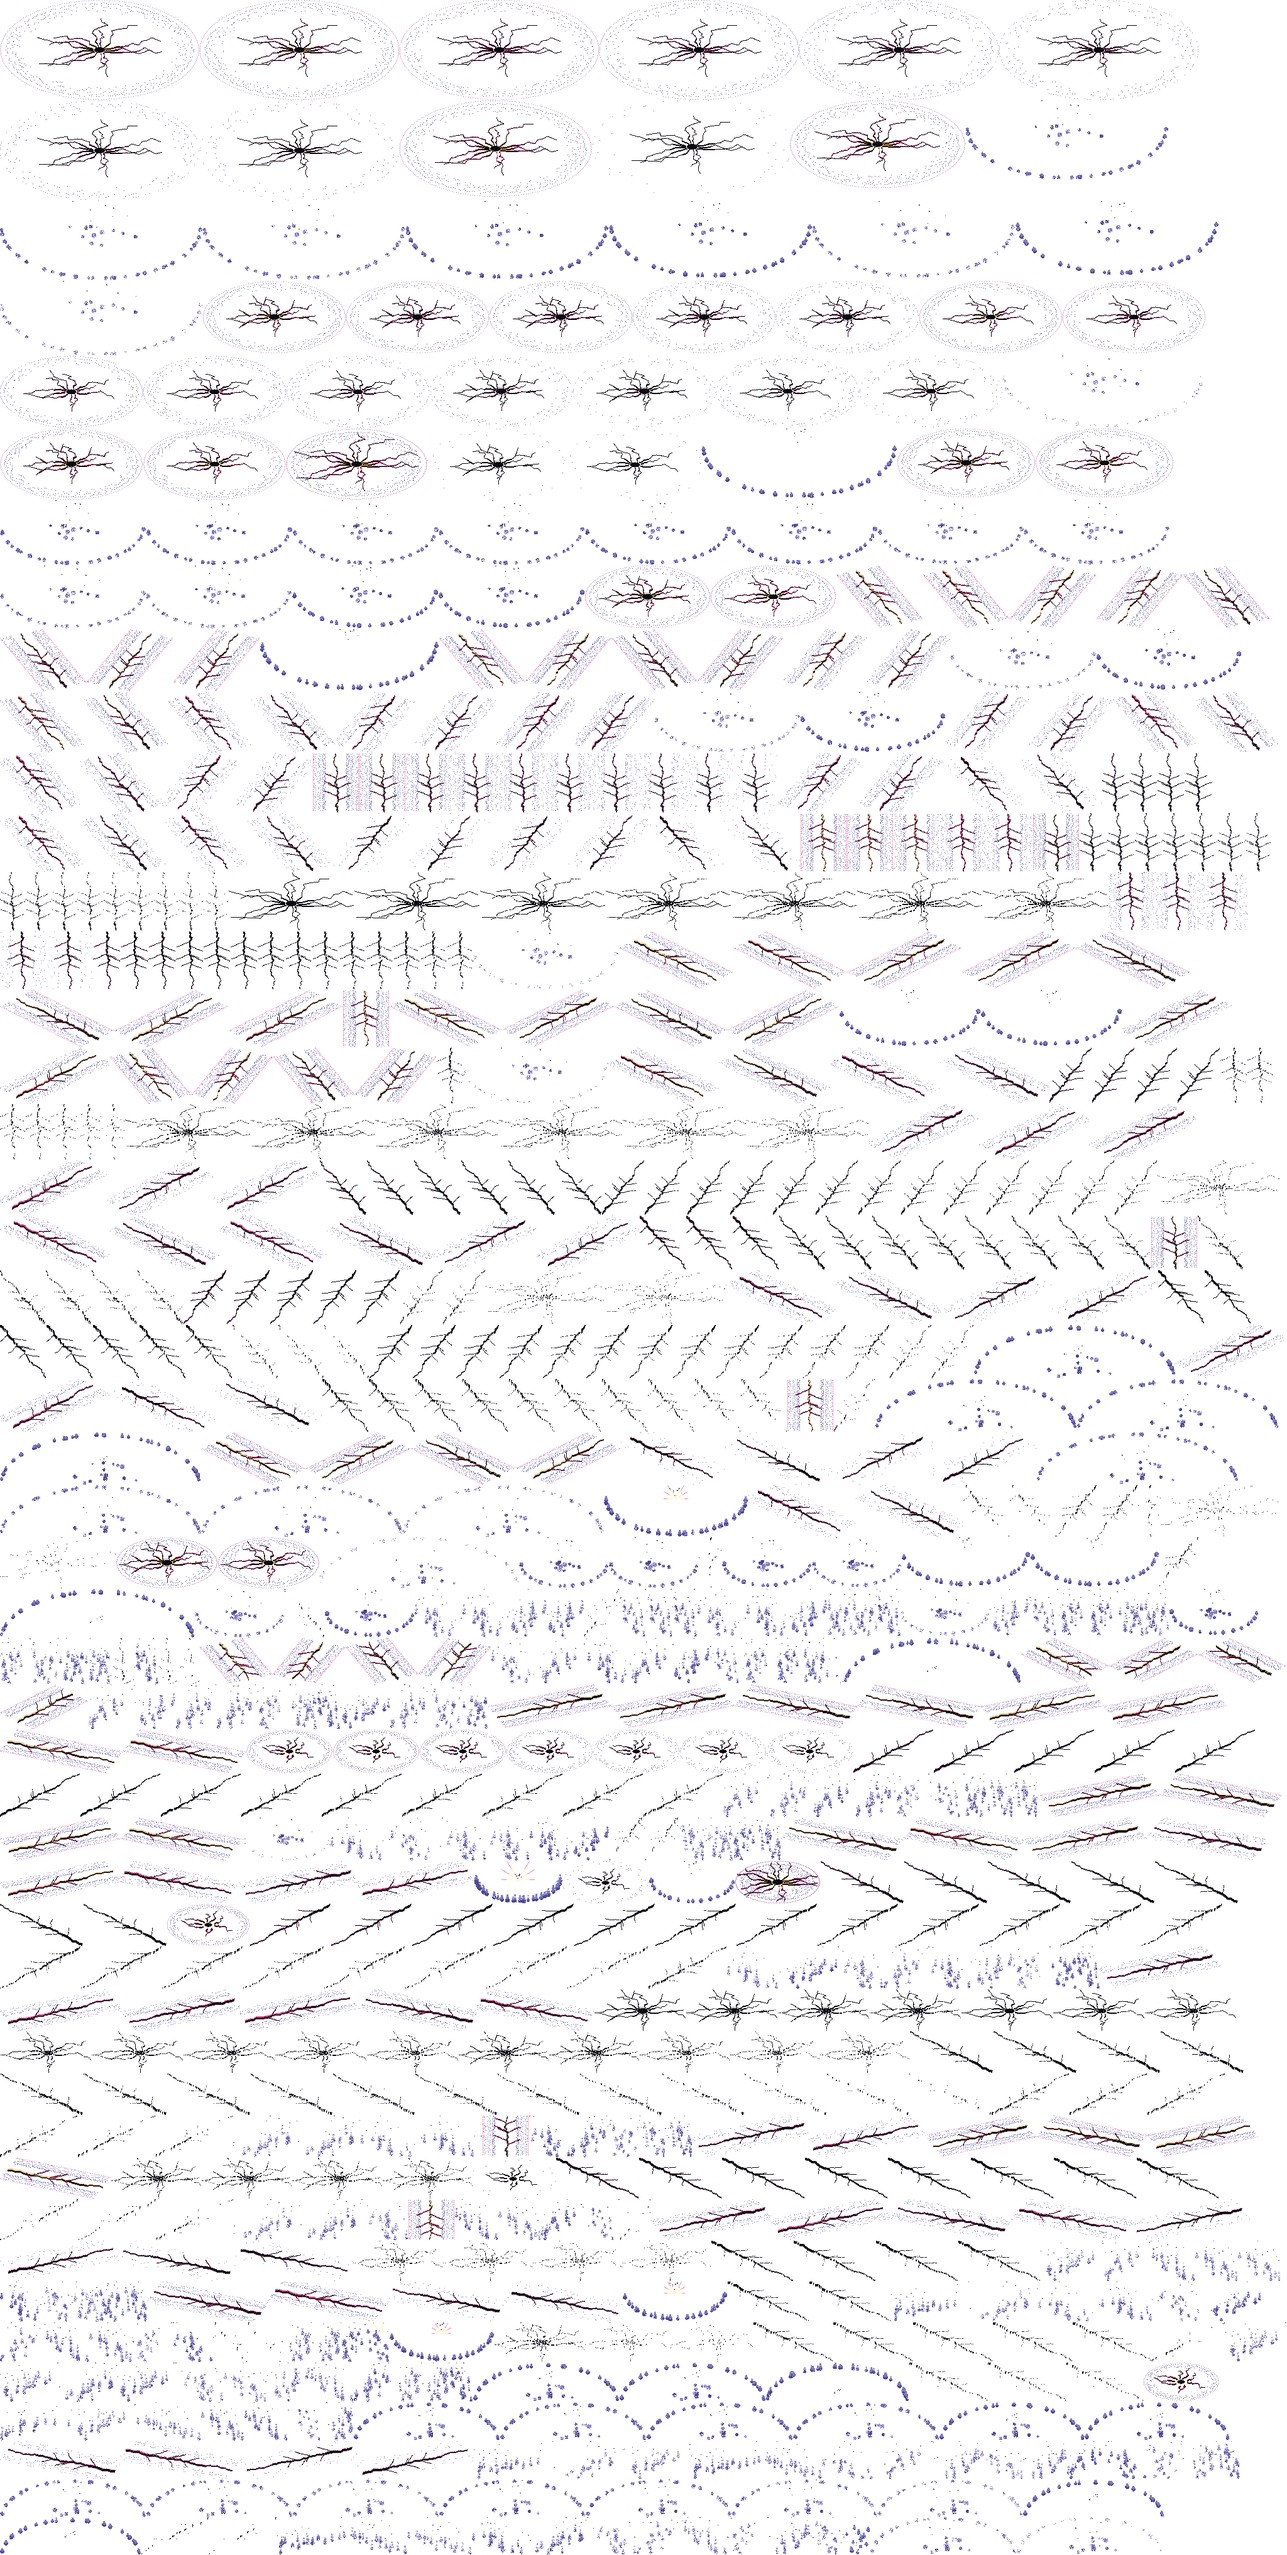
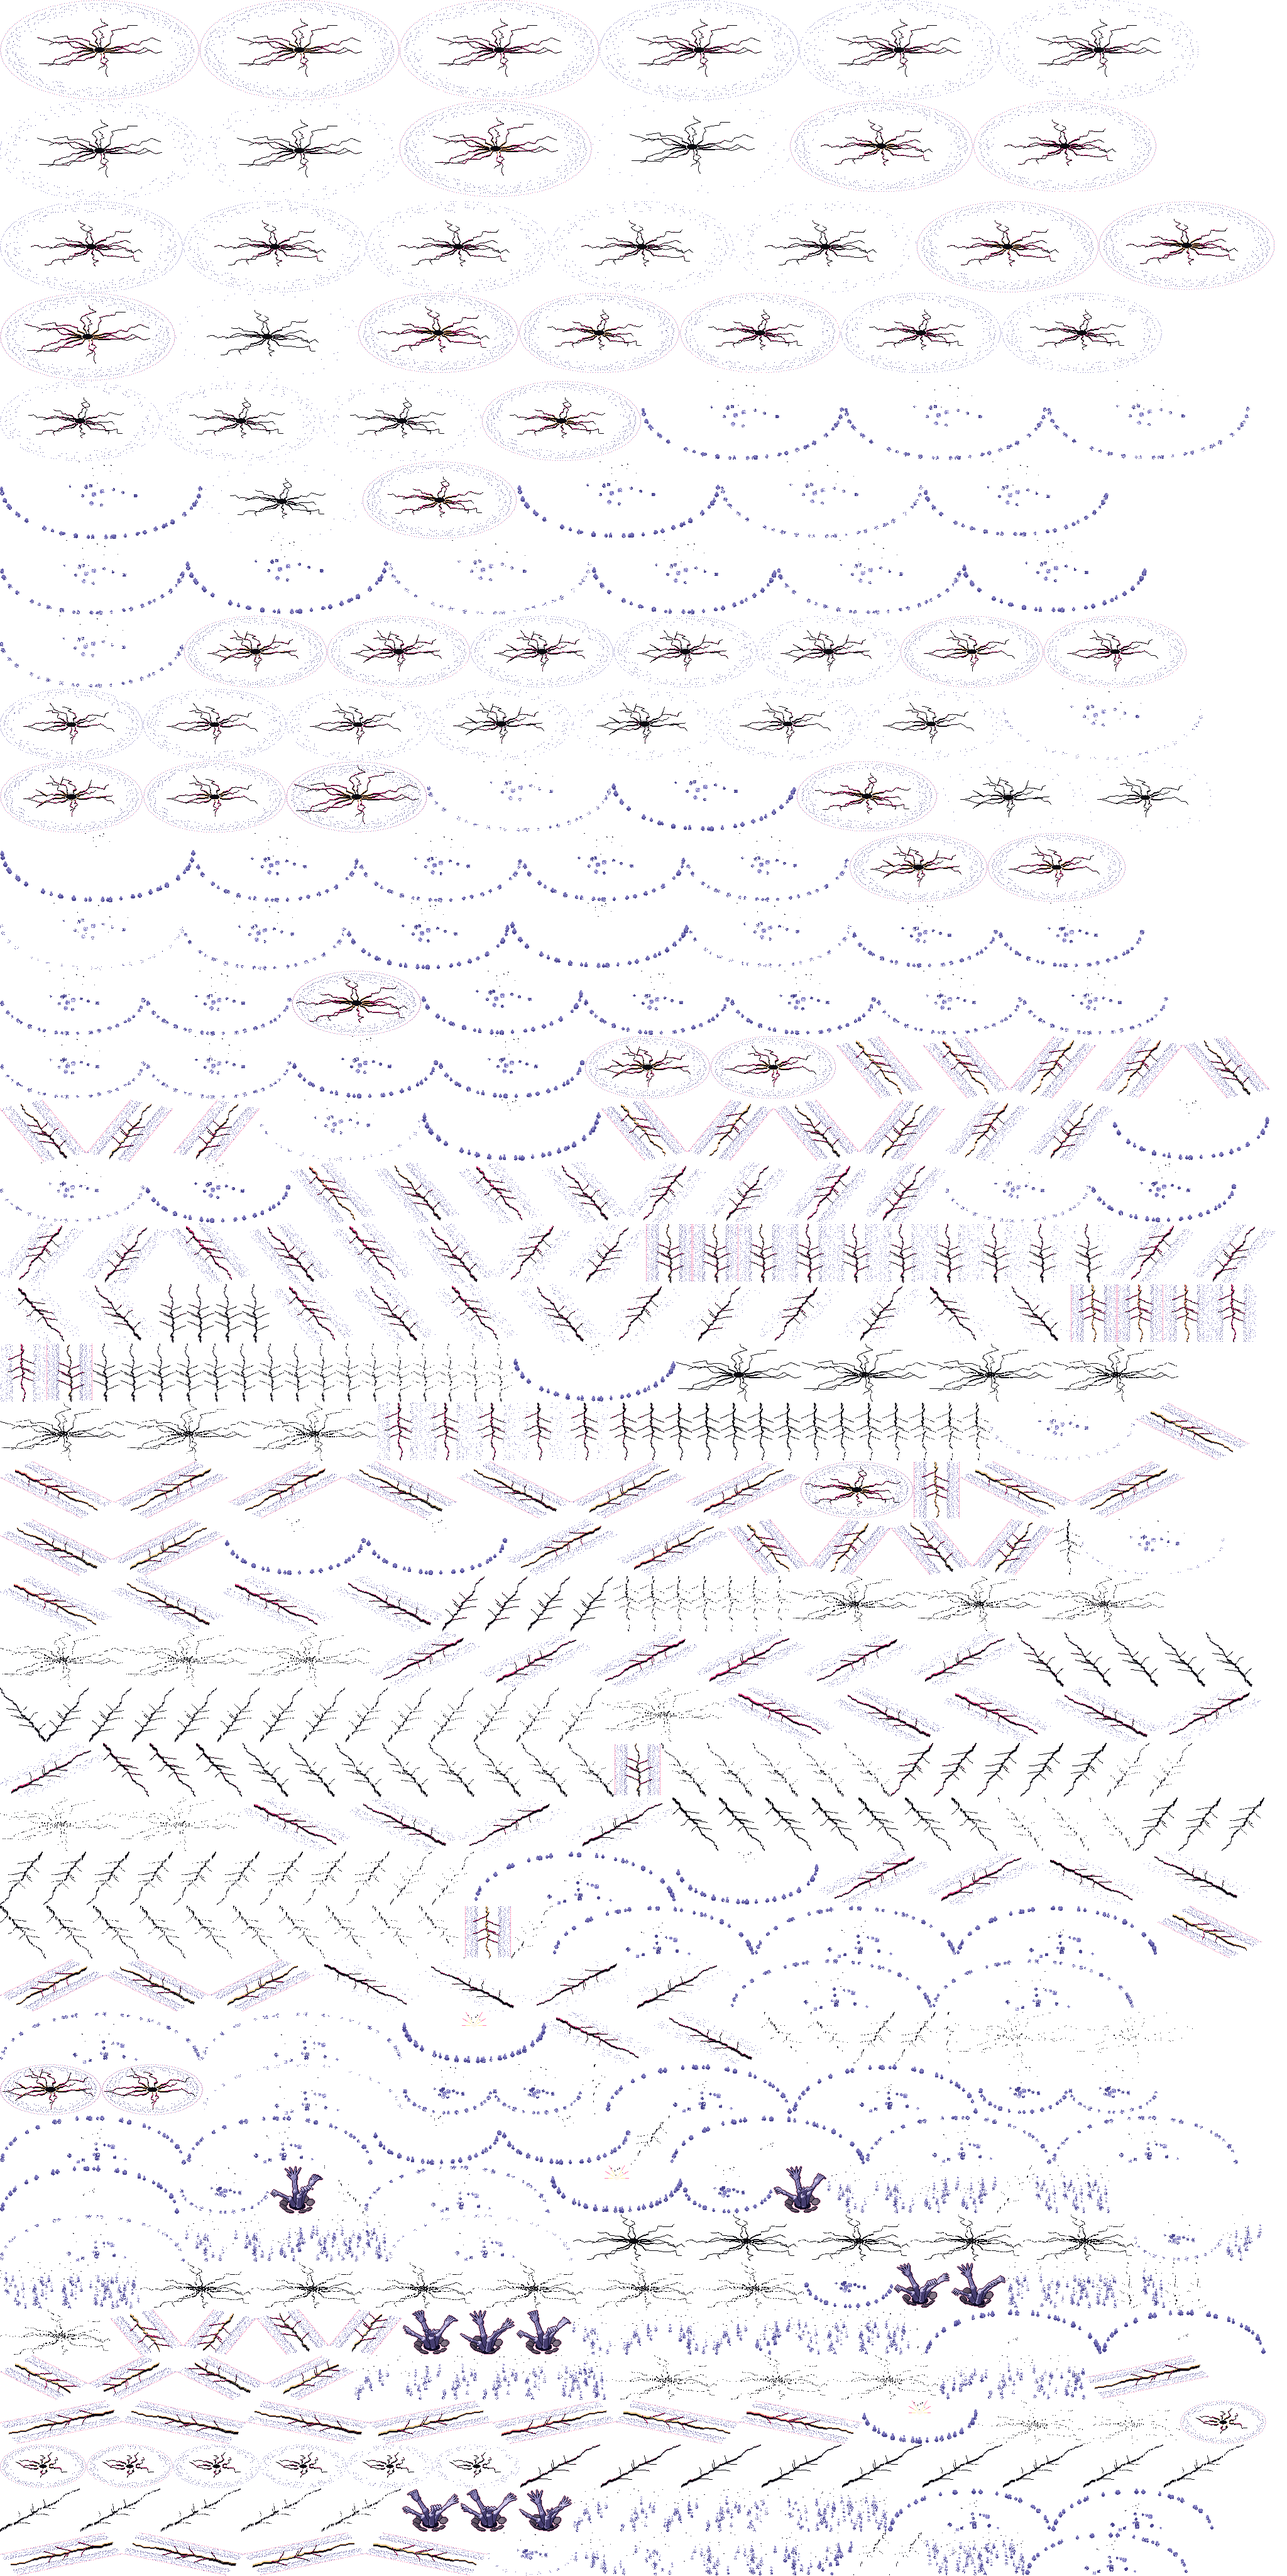
Godot port: the Ossuary Amalgamation's marks as the game paints them: its slam rings, the skulls of its rain (shadow, mark, burst, scuff, and the skull tumbling down), the arms of the dead and the crack they burst from, its fan's and its devour's dotted lines
tools/godot_fx.ts: films may begin before their own time 0 (k0); a canvas of the game's pixels for the game's own floor
painters that lay single pixels (drawArmCrack). perils.gd: a layer over the figures for what is in the air; a film's
layer at the figures' own depth; the warning's dotted lines as render/act1_fx/amalgam.ts draws them.

Claude-Session: https://claude.ai/code/session_01JYSqoVEeoMVs56KGNxXie3

diff --git a/tools/godot_fx.ts b/tools/godot_fx.ts
@@ -11,6 +11,16 @@
 //   co_ring_<r>  the Chained One's rings (art/chained_action_fx.ts ringPainted; render/act1_fx/chained.ts): the whirl's (3.5
 //                tiles), the ball's (2.5), the hammer's (1.5). 1.6 s each.
 //   co_crack_<w> his lash's crack, run along way w of the sixteen round (crackPainted). 1.8 s each.
+//   am_ring_<r>  the Ossuary Amalgamation's slam rings (art/amalgam_action_fx.ts slamRingPainted; render/act1_fx/amalgam.ts):
+//                the bone rain's (3.2 tiles) and the floor arms' (2.8).
+//   am_drop_<s>  a skull of its rain, by its seed (0 to 7; dropPainted): its shadow and its mark from the second before it
+//                lands (`k0` frames before the film's 0), its burst and its scuff after.
+//   am_skull     the skull itself, tumbling (makeRainSkullArt: 8 pictures, layer `air`; the game picks one by its clock).
+//   am_arm       the arms of the dead burst up out of a hole (makeBigArmArt: 13 frames at 10 a second, layer `stand`).
+//   am_arm_crack the floor cracking open where they will burst up, glowing, and dark round the hole after (art/boss_shots.ts
+//                drawArmCrack, the game's own painter, painted here onto a canvas of the game's pixels): from 0.5 s before
+//                they burst to 0.8 s after they are gone.
+// A film's `k0`: the frame its first picture is, counted from the film's own time 0 (less than 0: it begins before it).
 import { mkdirSync, writeFileSync } from 'node:fs';
 import { crc32, deflateSync } from 'node:zlib';
 import type { Sprite } from '../src/engine/px';
@@ -19,6 +29,8 @@ import { gameSwitches } from './godot_switches';
 import { toSprite } from '../src/art/kit';
 import { RING as F3_RING, RING_CANVAS, ringPainted as f3Ring } from '../src/art/action_f3_fx';
 import { CRACK, CRACK_CANVAS, RING as CO_RING, crackPainted, ringCanvas, ringPainted as coRing } from '../src/art/chained_action_fx';
+import { BIG_ARM_FPS, BIG_ARM_FRAMES, BIG_ARM_TIME, DROP_CANVAS, RAIN, RAIN_SKULL_FRAMES, SLAM_RING, dropPainted, makeBigArmArt, makeRainSkullArt, slamRingCanvas, slamRingPainted } from '../src/art/amalgam_action_fx';
+import { ARM_CRACK_AFTER, ARM_CRACK_WARN, drawArmCrack } from '../src/art/boss_shots';
 
 paintWithoutCanvas();
 gameSwitches();
@@ -26,7 +38,7 @@ const OUT = 'godot/assets/fx';
 mkdirSync(OUT, { recursive: true });
 const FPS = 30;
 
-interface Film { fps: number; n: number; layers: Record<string, number[]> }
+interface Film { fps: number; n: number; k0: number; layers: Record<string, number[]> }
 const films: Record<string, Film> = {};
 /** The pictures, each once: its pixels (picture pixels), and where its top left lies from the floor point. */
 const pics: { w: number; h: number; d: Uint8ClampedArray; ox: number; oy: number }[] = [];
@@ -35,8 +47,11 @@ const seen = new Map<string, number>();
 /** A sprite as a picture: in picture pixels, cut to what is painted; -1 if nothing is. */
 function pic(s: Sprite | null): number {
   if (!s) return -1;
-  const p = paintingOf(s);
-  const k = 2 / (s.density ?? 1);
+  return rawPic(paintingOf(s), 2 / (s.density ?? 1), s.ax * 2, s.ay * 2);
+}
+
+/** A painting (`k` picture pixels to each of its own), its floor point at (ax2, ay2) picture pixels from its corner, as a picture. */
+function rawPic(p: { w: number; h: number; d: Uint8ClampedArray }, k: number, ax2: number, ay2: number): number {
   let x0 = p.w;
   let y0 = p.h;
   let x1 = -1;
@@ -56,8 +71,8 @@ function pic(s: Sprite | null): number {
     const o = ((y0 + Math.floor(y / k)) * p.w + x0 + Math.floor(x / k)) * 4;
     d.set(p.d.subarray(o, o + 4), (y * w + x) * 4);
   }
-  const ox = x0 * k - s.ax * 2;
-  const oy = y0 * k - s.ay * 2;
+  const ox = x0 * k - ax2;
+  const oy = y0 * k - ay2;
   let hash = 0;
   for (let i = 0; i < d.length; i++) hash = (Math.imul(hash, 31) + d[i]) | 0;
   const key = `${w}x${h}@${ox},${oy}#${hash}`;
@@ -68,12 +83,49 @@ function pic(s: Sprite | null): number {
   return pics.length - 1;
 }
 
-/** A film of `secs` seconds: each layer's frame `k` as the game paints it. */
-function film(name: string, secs: number, layers: Record<string, (k: number) => Sprite | null>): void {
-  const n = Math.floor(secs * FPS) + 1;
+/** A film from `t0` to `secs` seconds (of its own time): each layer's frame `k` (counted from its time 0) as the game paints it. */
+function film(name: string, secs: number, layers: Record<string, (k: number) => Sprite | number | null>, t0 = 0): void {
+  const k0 = Math.round(t0 * FPS);
+  const n = Math.floor(secs * FPS) - k0 + 1;
   const out: Record<string, number[]> = {};
-  for (const [layer, at] of Object.entries(layers)) out[layer] = Array.from({ length: n }, (_, k) => pic(at(k)));
-  films[name] = { fps: FPS, n, layers: out };
+  for (const [layer, at] of Object.entries(layers)) {
+    out[layer] = Array.from({ length: n }, (_, i) => {
+      const q = at(k0 + i);
+      return typeof q === 'number' ? q : pic(q);
+    });
+  }
+  films[name] = { fps: FPS, n, k0, layers: out };
+}
+
+/**
+ * A CANVAS OF THE GAME'S PIXELS for one of the game's own floor painters that lays single pixels (fillRect, globalAlpha,
+ * fillStyle '#rrggbb'): what it lays, one over another as a canvas would.
+ */
+class Dots {
+  globalAlpha = 1;
+  fillStyle = '#000000';
+  d: Uint8ClampedArray;
+  constructor(public w: number, public h: number) {
+    this.d = new Uint8ClampedArray(w * h * 4);
+  }
+  fillRect(x: number, y: number, w: number, h: number): void {
+    const c = this.fillStyle;
+    const r = parseInt(c.slice(1, 3), 16);
+    const g = parseInt(c.slice(3, 5), 16);
+    const b = parseInt(c.slice(5, 7), 16);
+    const a = Math.max(0, Math.min(1, this.globalAlpha));
+    for (let j = Math.round(y); j < Math.round(y) + h; j++) for (let i = Math.round(x); i < Math.round(x) + w; i++) {
+      if (i < 0 || j < 0 || i >= this.w || j >= this.h) continue;
+      const o = (j * this.w + i) * 4;
+      const da = this.d[o + 3] / 255;
+      const oa = a + da * (1 - a);
+      if (oa <= 0) continue;
+      this.d[o] = (r * a + this.d[o] * da * (1 - a)) / oa;
+      this.d[o + 1] = (g * a + this.d[o + 1] * da * (1 - a)) / oa;
+      this.d[o + 2] = (b * a + this.d[o + 2] * da * (1 - a)) / oa;
+      this.d[o + 3] = Math.round(oa * 255);
+    }
+  }
 }
 
 type Layer = 'floor' | 'behind' | 'before';
@@ -91,6 +143,33 @@ const WAYS = 16;
 for (let w = 0; w < WAYS; w++) {
   const a = (w / WAYS) * 2 * Math.PI;
   film(`co_crack_${w}`, CRACK.long, three((what, k) => toSprite(crackPainted(k / FPS, what === 'floor' ? 'floor' : 'air', [Math.cos(a), Math.sin(a)], what === 'floor' ? 'all' : what), null, CRACK_CANVAS.ax, CRACK_CANVAS.ay)));
+}
+
+// the Ossuary Amalgamation's (render/act1_fx/amalgam.ts, render/bossfx.ts)
+for (const r of [SLAM_RING.rain, SLAM_RING.arms]) {
+  const C = slamRingCanvas(r);
+  film(`am_ring_${r}`, SLAM_RING.long, three((what, k) => toSprite(slamRingPainted(k / FPS, what === 'floor' ? 'floor' : 'air', r, what === 'floor' ? 'all' : what), null, C.ax, C.ay)));
+}
+for (let seed = 0; seed < 8; seed++) {
+  const drop = (what: Layer, k: number): Sprite => toSprite(dropPainted(k / FPS, what === 'floor' ? 'floor' : 'air', seed, what === 'floor' ? 'all' : what), null, DROP_CANVAS.ax, DROP_CANVAS.ay);
+  // (what stands of it only from when it lands, as the game has it)
+  film(`am_drop_${seed}`, RAIN.mite.scuff, { floor: (k) => drop('floor', k), behind: (k) => (k < 0 ? null : drop('behind', k)), before: (k) => (k < 0 ? null : drop('before', k)) }, -RAIN.fly);
+}
+{
+  const skulls = makeRainSkullArt('front');
+  films.am_skull = { fps: 0, n: RAIN_SKULL_FRAMES, k0: 0, layers: { air: Array.from({ length: RAIN_SKULL_FRAMES }, (_, i) => pic(skulls[i])) } };
+  const arms = makeBigArmArt('front');
+  films.am_arm = { fps: BIG_ARM_FPS, n: BIG_ARM_FRAMES, k0: 0, layers: { stand: Array.from({ length: BIG_ARM_FRAMES }, (_, i) => pic(arms[i])) } };
+  // (the crack: the game's own painter on a canvas of the game's pixels, its floor point in the canvas's middle)
+  const W = 96;
+  const H = 64;
+  film('am_arm_crack', BIG_ARM_TIME + ARM_CRACK_AFTER, {
+    floor: (k) => {
+      const g = new Dots(W, H);
+      drawArmCrack(g as unknown as CanvasRenderingContext2D, (x, y) => [W / 2 + (x - y) * 16, H / 2 + (x + y) * 8] as const, 0, 0, k / FPS, BIG_ARM_TIME);
+      return rawPic(g, 2, W, H);
+    },
+  }, -ARM_CRACK_WARN);
 }
 
 // --- the sheets: the tallest pictures first, shelf by shelf, 2048 wide and at most 4096 tall each ---
